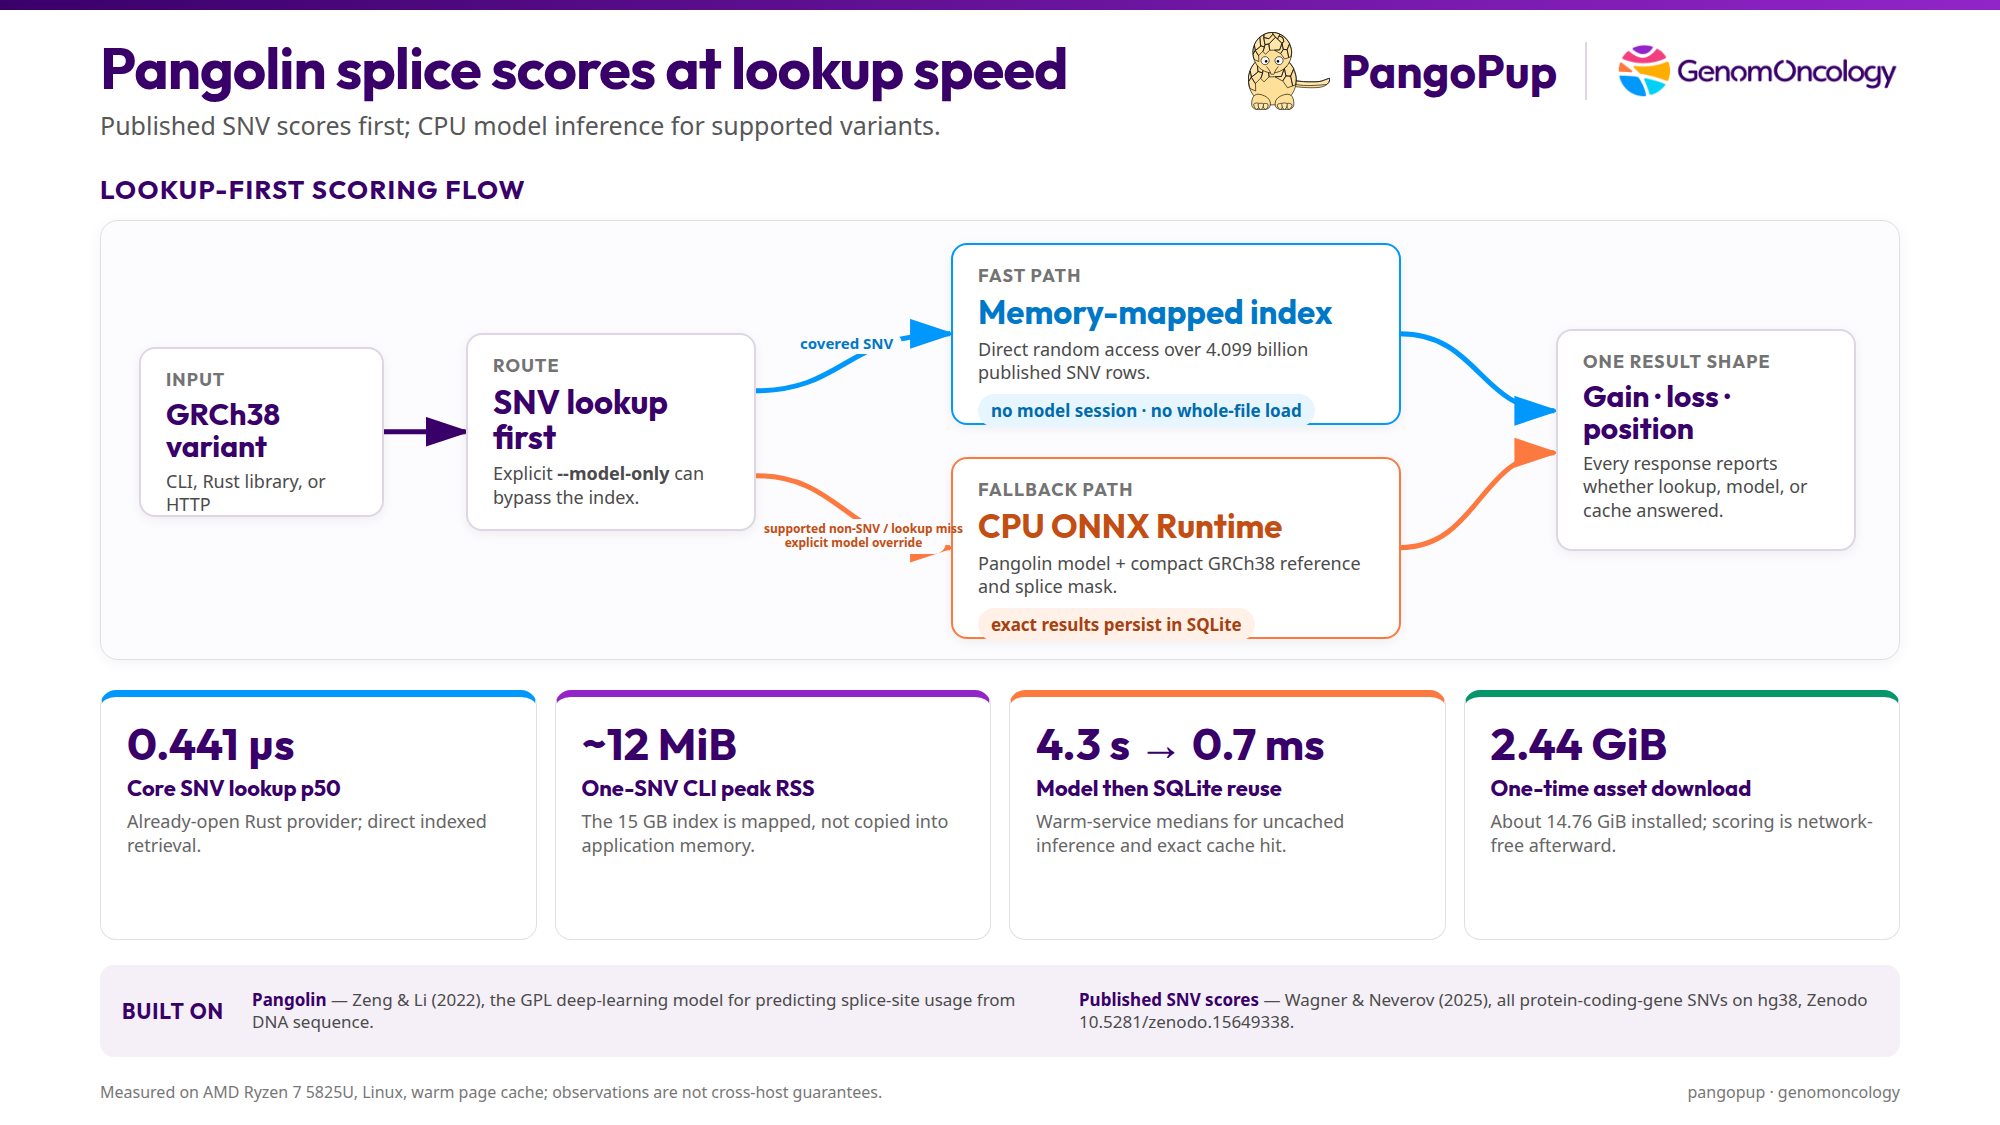
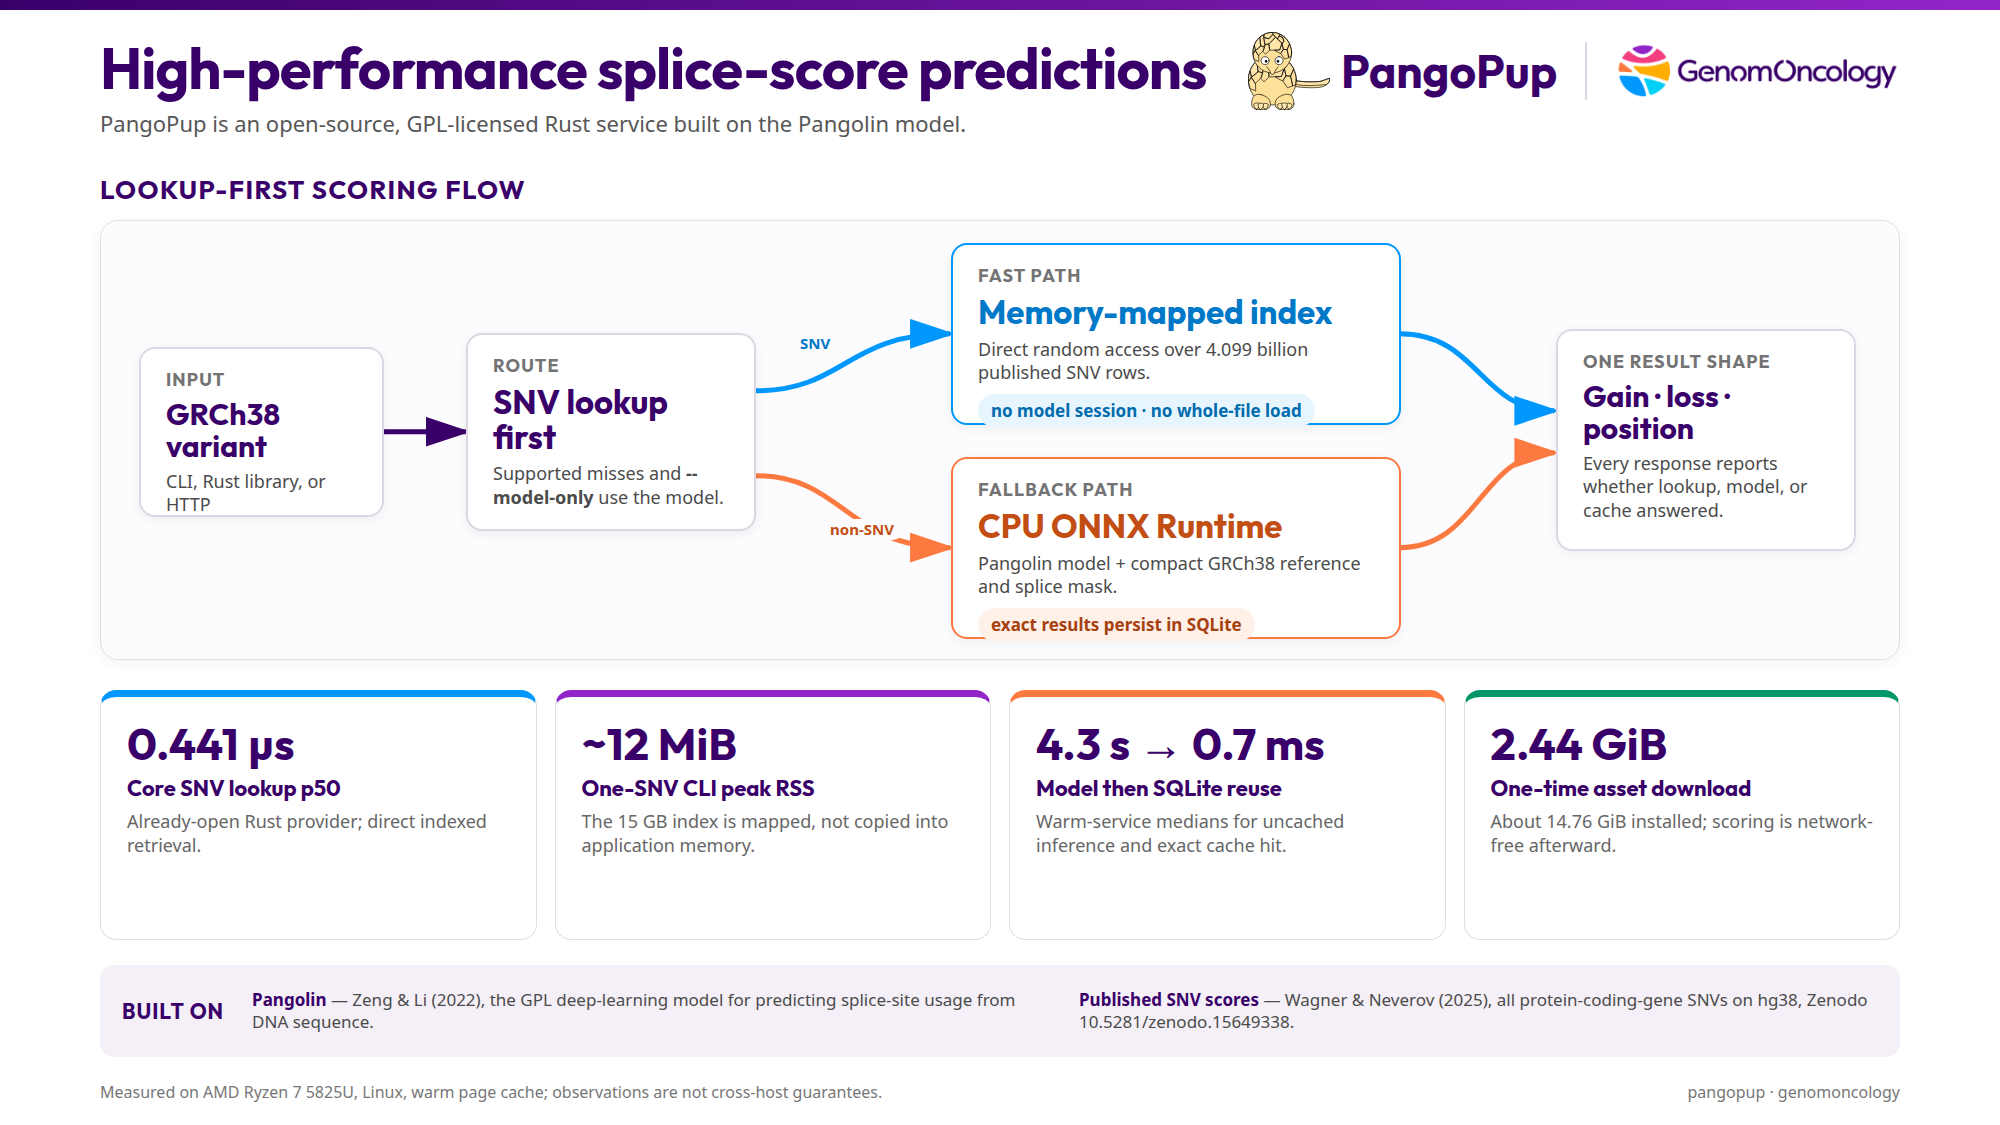
docs: simplify README performance hero

diff --git a/planning/tickets/061-simplify-readme-hero-and-attribution.md b/planning/tickets/061-simplify-readme-hero-and-attribution.md
@@ -1,6 +1,6 @@
 # 061 — Simplify README hero and organization attribution
 
-Status: ready
+Status: complete
 
 ## Why
 
@@ -115,11 +115,56 @@ coverage on 2026-08-05.
 
 ## Implementation Evidence
 
-Developer: pending
+Developer: Codex (`/root/ticket061_implementation`), 2026-08-05.
+
+- Updated the approved editable HTML and re-rendered the 2000×1125 hero with
+  the exact title, concise GPL/open-source/Rust/Pangolin subtitle, blue `SNV`
+  and orange `non-SNV` labels, and the supported-miss/`--model-only` model
+  qualification inside the router. Visual inspection found no clipping,
+  overlap, or displaced retained content.
+- Replaced the repository hero with that 257,351-byte render while retaining
+  both documented source marks, four qualified measurements, both prior-art
+  sources, the host qualification, and the existing flow.
+- Removed both standalone README logo images, added the linked GenomOncology /
+  BioMCP maker sentence, and kept the exact routing semantics in adjacent
+  accessible text.
+- Updated provenance, the rolling frontier, the static first-use contract, and
+  the fail-closed image checker. Mutation coverage rejects a second displayed
+  image, a missing hero, an extra or missing source mark, oversized/malformed
+  raster input, and the retained SVG script/reference cases.
+- Focused evidence passed: `bash scripts/check-readme-images.sh`,
+  `bash tests/readme-branding.sh`, `mustmatch test spec/readme-first-use.md`
+  (10 passed), `bash -n scripts/check-readme-images.sh
+  tests/readme-branding.sh`, and `git diff --check`.
+- Replacement remediation developer: Codex (`/root/ticket061_remediation`),
+  2026-08-05. The original developer's agent thread reached its tool limit, so
+  the coordinator assigned the review findings to this replacement. The
+  checker now requires the exact hero Markdown line exactly once, rejects all
+  other Markdown image forms and case-insensitive HTML `img`/`picture`/`source`
+  tags, and scans normalized SVG content so a line break cannot hide a linked
+  `href` or `src`. New reference-style Markdown, uppercase HTML, and multiline
+  SVG mutations cover those findings without changing the accepted hero or
+  README content.
 
 ## Adversarial Code Review
 
-Reviewer: pending
+Reviewer: Codex (`/root/ticket061_code_review`), 2026-08-05.
+
+- Initial verdict: REJECT. The reviewer found that uppercase HTML and
+  reference-style Markdown could bypass the exactly-one-displayed-image rule,
+  and that a multiline SVG linked attribute could bypass the existing
+  line-oriented safety scan. The README, hero, links, semantics, measurements,
+  provenance, and visual layout otherwise passed.
+- The original developer's follow-up thread reached the tool limit, so the
+  coordinator assigned only those findings to replacement remediation
+  developer Codex (`/root/ticket061_remediation`).
+- Remediation requires the exact hero line once, rejects every other Markdown
+  image form and case-insensitive HTML `img`/`picture`/`source` tag, and scans
+  normalized SVG content for multiline linked attributes. Exact mutations
+  cover every reported bypass.
+- Re-review verdict: ACCEPT. The same reviewer reproduced the prior bypasses,
+  confirmed they now fail, reran the image checker, mutation suite, 10-case
+  README spec, shell syntax and diff check, and reported no remaining findings.
 
 ## External Effect Evidence
 
@@ -127,4 +172,15 @@ Coordinator: not applicable
 
 ## Coordinator Final Check
 
-Coordinator: pending
+Coordinator: Codex (`/root`), 2026-08-05.
+
+- `make lint`: passed. Existing advisory-only duplicate dependency and
+  `zstd-sys` semver-metadata warnings remain unchanged; advisories, bans,
+  licenses, and sources are accepted.
+- `make test`: passed, including the complete Rust workspace, README image
+  production/mutation checks, executable delivery, and production release
+  qualification.
+- `make spec`: 276 passed, 7 skipped.
+- `git diff --check`, asset hashes, one-image enforcement, exact attribution
+  links, and visual inspection passed. The frontier records the simplified
+  presentation as current, not future work.

diff --git a/spec/readme-first-use.md b/spec/readme-first-use.md
@@ -18,22 +18,30 @@ test "$headings" = "$(printf '%s\n' \
 printf 'README structure is compact and user-first\n' | mustmatch like 'README structure is compact and user-first'
 ```
 
-The additional opening space is reserved for the two brand marks, the
-performance overview, and its adjacent text equivalent. All four must remain
-before Quick start rather than becoming general README growth.
+The additional opening space is reserved for one performance hero, concise
+maker attribution, and the adjacent text equivalent. They remain before Quick
+start rather than becoming general README growth. The two source marks are
+embedded in the hero, not repeated as standalone README images.
 
 ```bash
 before_quick=$(awk '/^## Quick start$/ { exit } { print }' ../README.md)
 for text in \
-  'docs/images/pangopup.svg' \
-  'docs/images/genomoncology.png' \
   'docs/images/pangopup-performance.png' \
+  '[GenomOncology](https://genomoncology.com/)' \
+  '[BioMCP](https://biomcp.org/)' \
+  'which also makes' \
   'Performance overview in text' \
   'Every score reports whether a' \
   'precomputed lookup, the Pangolin model, or the SQLite cache answered it.'; do
   printf '%s' "$before_quick" | rg -F "$text" >/dev/null
 done
-printf 'branding and accessible performance overview precede Quick start\n' | mustmatch like 'branding and accessible performance overview precede Quick start'
+hero='![PangoPup lookup-first performance overview showing mmap SNV lookup, CPU ONNX model fallback, SQLite reuse, and measured resource use](docs/images/pangopup-performance.png)'
+test "$(grep -Fxc "$hero" ../README.md)" = 1
+test "$(grep -Fo '![' ../README.md | wc -l | tr -d '[:space:]')" = 1
+! rg -i '<[[:space:]]*(img|picture|source)([[:space:]/>])' ../README.md
+! rg -F 'docs/images/pangopup.svg' ../README.md
+! rg -F 'docs/images/genomoncology.png' ../README.md
+printf 'one hero, maker attribution, and accessible overview precede Quick start\n' | mustmatch like 'one hero, maker attribution, and accessible overview precede Quick start'
 ```
 
 The title is followed directly by the product and scientific explanation.
@@ -48,6 +56,9 @@ for text in \
   'gain and signed loss' \
   'genomic-coordinate' \
   'memory-mapped index' \
+  'supported lookup miss' \
+  'supported non-SNV' \
+  'explicit `--model-only` request' \
   'runs through the Pangolin model' \
   'saved in SQLite for reuse' \
   '50 bases on either side' \

diff --git a/README.md b/README.md
@@ -1,15 +1,10 @@
 # PangoPup
 
-<p align="center">
-  <img src="docs/images/pangopup.svg" alt="PangoPup pangolin logo" width="112">
-  &nbsp;&nbsp;&nbsp;&nbsp;
-  <img src="docs/images/genomoncology.png" alt="GenomOncology logo" width="306">
-</p>
-
-PangoPup provides fast, local [Pangolin](https://github.com/tkzeng/Pangolin)-compatible
-splice predictions for GRCh38 variants. It reports the strongest predicted splice-site
-gain and signed loss caused by a variant, together with each result's genomic-coordinate
-offset. The scores help identify variants that may alter RNA splicing.
+PangoPup is an open-source, GPL-licensed Rust service built on the
+[Pangolin](https://github.com/tkzeng/Pangolin) model. It provides fast, local splice
+predictions for GRCh38 variants. For each variant, it reports the strongest predicted splice-site
+gain and signed loss together with each result's genomic-coordinate offset.
+The scores help identify variants that may alter RNA splicing.
 
 For single-nucleotide variants (SNVs), PangoPup first checks a memory-mapped index of
 published scores. A supported lookup miss or non-SNV runs through the Pangolin model on
@@ -18,6 +13,9 @@ the CPU, and modeled results are saved in SQLite for reuse. The reported search 
 positive offset beyond 50.
 
 ![PangoPup lookup-first performance overview showing mmap SNV lookup, CPU ONNX model fallback, SQLite reuse, and measured resource use](docs/images/pangopup-performance.png)
+
+PangoPup was built by [GenomOncology](https://genomoncology.com/), which also makes
+[BioMCP](https://biomcp.org/).
 
 <details>
 <summary><strong>Performance overview in text</strong></summary>

diff --git a/docs/images/README.md b/docs/images/README.md
@@ -29,16 +29,18 @@ external image hosting.
 
 - Work: PangoPup lookup-first performance overview
 - Creator: GenomOncology, rendered from the approved local HTML artwork for
-  Ticket 060.
+  Ticket 061.
 - Included marks: the two assets documented above.
[2 lines of base64/hex data omitted]
 - Source measurements:
   [`planning/artifacts/004-snv-lookup-performance.md`](../../planning/artifacts/004-snv-lookup-performance.md)
   and
   [`planning/artifacts/053-current-runtime-resources.md`](../../planning/artifacts/053-current-runtime-resources.md).
-- Change from the approved presentation: narrows model fallback to supported
-  variants, identifies the three supported fallback routes, records the exact
-  `0.441 µs` measurement, and removes the release number.
+- Change from the approved presentation: uses the public-facing title and
+  open-source/GPL/Rust description, shortens the ordinary route labels to
+  `SNV` and `non-SNV`, keeps supported misses and explicit model override in
+  the router, records the qualified `0.441 µs` measurement, and omits a release
+  number.
 - The raster is a web-sized derivative only. Presentation source, renderer
   dependencies, and PowerPoint output are intentionally not part of this
   repository.

diff --git a/planning/frontier.md b/planning/frontier.md
@@ -11,9 +11,10 @@ optional gene filter and returns all matching source records by default from an
 explicit fixed-v1 bundle or the active Linux user-data installation. Speed
 leads memory and download size. Deterministic local transport, atomic install,
 status, active discovery, cheap reuse, and the fast 1,000-case regression are
-established. The first-user README now carries reusable PangoPup and
-GenomOncology branding plus an accessible, release-neutral lookup-first
-performance overview with retained measurements and prior-art attribution.
+established. The first-user README now presents one accessible, release-neutral
+lookup-first performance hero containing the retained PangoPup and
+GenomOncology marks, measurements, and prior-art attribution. Adjacent text
+links GenomOncology and BioMCP without repeating standalone logo images.
 Immutable publication and pinned resumable remote sync are also
 complete. Sync now uses progress-reset blocking reads, typed four-attempt
 transient retry, exact committed byte accounting, and terminal/forced bounded
